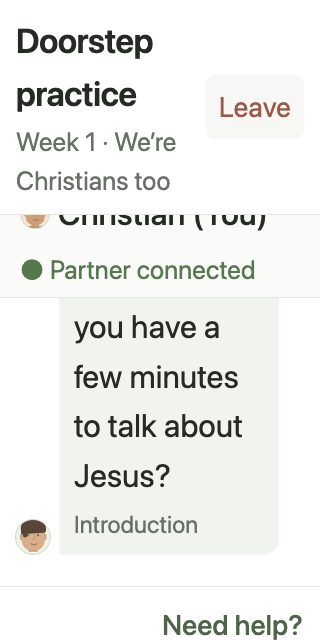
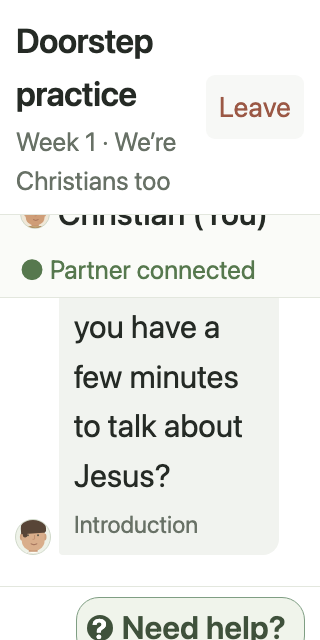
545

Changed region(s): [[0.2188, 0.9375, 0.9688, 1.0]]

diff --git a/src/components/conversation/conversation.module.css b/src/components/conversation/conversation.module.css
@@ -838,8 +838,7 @@
   margin: 0 0 8px;
 }
 
-.directionToggle,
-.helpTrigger {
+.directionToggle {
   min-height: 44px;
   padding: 6px 2px;
   border: 0;
@@ -850,10 +849,43 @@
   text-align: right;
 }
 
-.directionToggle:hover,
-.helpTrigger:hover {
+.directionToggle:hover {
   text-decoration: underline;
   text-underline-offset: 4px;
+}
+
+.helpTrigger {
+  display: inline-flex;
+  align-items: center;
+  gap: 9px;
+  min-height: 46px;
+  padding: 9px 18px 9px 10px;
+  border: 1px solid var(--color-selected-line);
+  border-radius: 23px;
+  background: var(--color-chip);
+  font-size: 1rem;
+  font-weight: 600;
+  line-height: 1.3;
+  color: var(--color-teal);
+}
+
+.helpTrigger:hover:not(:disabled) {
+  border-color: var(--color-teal);
+  background: var(--color-bubble-speaking);
+}
+
+.helpIcon {
+  display: grid;
+  place-items: center;
+  width: 26px;
+  height: 26px;
+  flex: 0 0 26px;
+  border-radius: 50%;
+  background: var(--color-teal);
+  font-size: 0.875rem;
+  font-weight: 700;
+  line-height: 1;
+  color: var(--color-surface);
 }
 
 .suggestionChips {
@@ -1104,6 +1136,17 @@
 @media (max-width: 400px) {
   .composeNote {
     display: none;
+  }
+
+  /* The nudge to answer unaided matters most on phones, so it gets its own line above the buttons. */
+  .composeBar:has(.composeHint) {
+    flex-wrap: wrap;
+  }
+
+  .composeNote.composeHint {
+    display: block;
+    flex-basis: 100%;
+    order: -1;
   }
 }
 

diff --git a/src/components/conversation/ConversationView.tsx b/src/components/conversation/ConversationView.tsx
@@ -191,7 +191,7 @@ export function ConversationView({
   } else if (awaitingAnswer) {
     hasDraft = !!christianText
     caption = hasDraft ? 'Your next line' : 'Your response'
-    note = 'Speak aloud, then send'
+    note = hasDraft ? 'Speak aloud, then send' : 'Try to answer on your own first'
     text = christianText ?? 'Respond aloud in your own words…'
     sendLabel = 'Send response'
     canSend = true
@@ -233,6 +233,9 @@ export function ConversationView({
         {role === 'christian' && awaitingAnswer ? (
           <div className={styles.helpEntry}>
             <button type="button" className={styles.helpTrigger} aria-haspopup="dialog" disabled={!canAct} onClick={() => openSheet('help')}>
+              <span className={styles.helpIcon} aria-hidden="true">
+                ?
+              </span>
               Need help?
             </button>
           </div>
@@ -286,7 +289,9 @@ export function ConversationView({
             >
               +
             </button>
-            <span className={styles.composeNote}>{note}</span>
+            <span className={role === 'christian' && awaitingAnswer ? `${styles.composeNote} ${styles.composeHint}` : styles.composeNote}>
+              {note}
+            </span>
             {hasDraft && role === 'christian' ? (
               <button
                 type="button"

diff --git a/src/app/DevPreview.tsx b/src/app/DevPreview.tsx
@@ -204,6 +204,10 @@ const STATES: Record<string, PreviewState> = {
     },
   },
   'conversation-christian-waiting': { conversation: true, snapshot: { ...talking, myRole: 'christian', history: introduced } },
+  'conversation-christian-answering': {
+    conversation: true,
+    snapshot: { ...talking, myRole: 'christian', turn: 'christian', history: [{ speaker: 'missionary', id: 'introduction' }] },
+  },
   'replies-missionary-matched': { conversation: true, replies: true, snapshot: { ...talking, history: answeredChristianity } },
   'replies-missionary-heard': {
     conversation: true,
